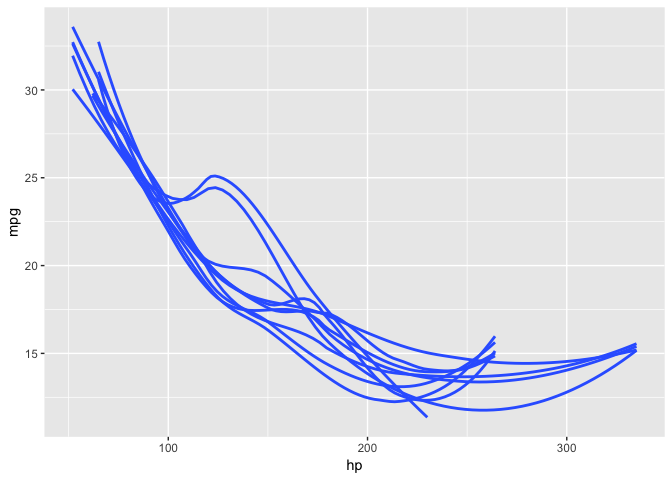
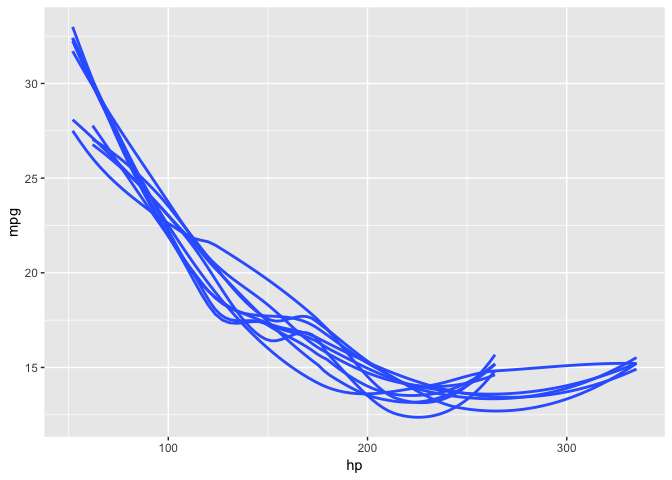
Use map2 over the indices and the size: - size is now vectorized and recycled which allows more flexibility in the grouped samplify case without replacement (if one group is much smaller than the others) - bootstrapify() can now pass in a vector of group sizes rather than NULL

diff --git a/README.md b/README.md
@@ -216,6 +216,33 @@ iris_50_5_group_sizes %>%
 #> Error: `size` (10) must be less than or equal to the size of the data / current group (5), set `replace = TRUE` to use sampling with replacement.
 ```
 
+Instead, pass a vector of sizes to `samplify()` if this structure is
+absolutely required for your use case.
+
+``` r
+# size of 10 for the first group
+# size of 5 for the second group
+# total number of rows is 10 * 2 + 5 * 2 = 30
+iris_50_5_group_sizes %>%
+  samplify(times = 2, size = c(10, 5)) %>%
+  collect()
+#> # A tibble: 30 x 6
+#> # Groups:   Species, .sample [4]
+#>    .sample Sepal.Length Sepal.Width Petal.Length Petal.Width Species
+#>      <int>        <dbl>       <dbl>        <dbl>       <dbl> <fct>  
+#>  1       1          5.4         3.9          1.3         0.4 setosa 
+#>  2       1          4.8         3.4          1.9         0.2 setosa 
+#>  3       1          5.2         3.5          1.5         0.2 setosa 
+#>  4       1          5.4         3.9          1.7         0.4 setosa 
+#>  5       1          4.6         3.1          1.5         0.2 setosa 
+#>  6       1          5.1         3.4          1.5         0.2 setosa 
+#>  7       1          4.6         3.6          1           0.2 setosa 
+#>  8       1          5.1         3.7          1.5         0.4 setosa 
+#>  9       1          5.4         3.4          1.5         0.4 setosa 
+#> 10       1          5           3.4          1.5         0.2 setosa 
+#> # … with 20 more rows
+```
+
 ## `group_*()` Functions
 
 `dplyr 0.8` adds some more neat group-wise functionality.
@@ -262,22 +289,24 @@ iris %>%
 #> # Groups:   Species, .bootstrap [30]
 #>    Species .bootstrap term         estimate std.error statistic  p.value
 #>  * <fct>        <int> <chr>           <dbl>     <dbl>     <dbl>    <dbl>
-#>  1 setosa           1 (Intercept)     4.41      0.407    10.8   1.66e-14
-#>  2 setosa           1 Petal.Length    0.366     0.275     1.33  1.90e- 1
-#>  3 setosa           2 (Intercept)     4.78      0.437    10.9   1.21e-14
-#>  4 setosa           2 Petal.Length    0.142     0.289     0.490 6.27e- 1
-#>  5 setosa           3 (Intercept)     3.85      0.410     9.40  1.84e-12
-#>  6 setosa           3 Petal.Length    0.834     0.279     2.99  4.42e- 3
-#>  7 setosa           4 (Intercept)     4.50      0.406    11.1   7.78e-15
-#>  8 setosa           4 Petal.Length    0.301     0.271     1.11  2.73e- 1
-#>  9 setosa           5 (Intercept)     3.66      0.467     7.84  3.86e-10
-#> 10 setosa           5 Petal.Length    0.917     0.333     2.76  8.22e- 3
+#>  1 setosa           1 (Intercept)     4.53      0.456     9.93  3.23e-13
+#>  2 setosa           1 Petal.Length    0.331     0.309     1.07  2.90e- 1
+#>  3 setosa           2 (Intercept)     3.81      0.381    10.0   2.41e-13
+#>  4 setosa           2 Petal.Length    0.798     0.253     3.16  2.77e- 3
+#>  5 setosa           3 (Intercept)     4.65      0.428    10.9   1.50e-14
+#>  6 setosa           3 Petal.Length    0.278     0.290     0.959 3.43e- 1
+#>  7 setosa           4 (Intercept)     4.28      0.441     9.69  7.00e-13
+#>  8 setosa           4 Petal.Length    0.432     0.309     1.40  1.68e- 1
+#>  9 setosa           5 (Intercept)     3.88      0.568     6.82  1.38e- 8
+#> 10 setosa           5 Petal.Length    0.750     0.396     1.89  6.45e- 2
 #> # … with 50 more rows
 ```
 
 ### Plotting bootstrapped results
 
 ``` r
+set.seed(123)
+
 # without bootstrap
 mtcars %>%
   ggplot(aes(hp, mpg)) + 
@@ -316,16 +345,16 @@ iris %>%
 #> # A tibble: 60 x 7
 #>    Species .bootstrap term         estimate std.error statistic  p.value
 #>    <fct>        <int> <chr>           <dbl>     <dbl>     <dbl>    <dbl>
-#>  1 setosa           1 (Intercept)     4.67      0.480     9.74  5.97e-13
-#>  2 setosa           1 Petal.Length    0.249     0.321     0.774 4.42e- 1
-#>  3 setosa           2 (Intercept)     4.07      0.481     8.45  4.58e-11
-#>  4 setosa           2 Petal.Length    0.616     0.342     1.80  7.78e- 2
-#>  5 setosa           3 (Intercept)     5.28      0.483    10.9   1.26e-14
-#>  6 setosa           3 Petal.Length   -0.173     0.321    -0.540 5.92e- 1
-#>  7 setosa           4 (Intercept)     3.83      0.400     9.57  1.04e-12
-#>  8 setosa           4 Petal.Length    0.765     0.271     2.82  6.89e- 3
-#>  9 setosa           5 (Intercept)     4.64      0.390    11.9   6.31e-16
-#> 10 setosa           5 Petal.Length    0.263     0.264     0.998 3.23e- 1
+#>  1 setosa           1 (Intercept)    5.09       0.445   11.4    2.61e-15
+#>  2 setosa           1 Petal.Length   0.0208     0.293    0.0710 9.44e- 1
+#>  3 setosa           2 (Intercept)    4.02       0.425    9.46   1.50e-12
+#>  4 setosa           2 Petal.Length   0.715      0.294    2.43   1.88e- 2
+#>  5 setosa           3 (Intercept)    5.10       0.447   11.4    2.83e-15
+#>  6 setosa           3 Petal.Length  -0.0737     0.302   -0.244  8.08e- 1
+#>  7 setosa           4 (Intercept)    3.75       0.428    8.77   1.54e-11
+#>  8 setosa           4 Petal.Length   0.885      0.300    2.95   4.87e- 3
+#>  9 setosa           5 (Intercept)    3.67       0.387    9.48   1.41e-12
+#> 10 setosa           5 Petal.Length   0.954      0.267    3.58   8.10e- 4
 #> # … with 50 more rows
 
 # Using rap  
@@ -344,15 +373,15 @@ iris %>%
 #> # A tibble: 60 x 7
 #>    Species .bootstrap term         estimate std.error statistic  p.value
 #>    <fct>        <int> <chr>           <dbl>     <dbl>     <dbl>    <dbl>
-#>  1 setosa           1 (Intercept)     3.45      0.406      8.49 4.00e-11
-#>  2 setosa           1 Petal.Length    1.08      0.279      3.87 3.23e- 4
-#>  3 setosa           2 (Intercept)     4.21      0.366     11.5  2.13e-15
-#>  4 setosa           2 Petal.Length    0.532     0.244      2.18 3.38e- 2
-#>  5 setosa           3 (Intercept)     4.20      0.340     12.4  1.56e-16
-#>  6 setosa           3 Petal.Length    0.544     0.229      2.37 2.16e- 2
-#>  7 setosa           4 (Intercept)     4.51      0.430     10.5  5.06e-14
-#>  8 setosa           4 Petal.Length    0.372     0.287      1.30 2.01e- 1
-#>  9 setosa           5 (Intercept)     4.31      0.477      9.03 6.49e-12
-#> 10 setosa           5 Petal.Length    0.532     0.320      1.66 1.03e- 1
+#>  1 setosa           1 (Intercept)    5.11       0.402   12.7    5.41e-17
+#>  2 setosa           1 Petal.Length  -0.0205     0.262   -0.0783 9.38e- 1
+#>  3 setosa           2 (Intercept)    4.05       0.462    8.77   1.56e-11
+#>  4 setosa           2 Petal.Length   0.661      0.318    2.08   4.31e- 2
+#>  5 setosa           3 (Intercept)    4.23       0.485    8.71   1.92e-11
+#>  6 setosa           3 Petal.Length   0.525      0.330    1.59   1.18e- 1
+#>  7 setosa           4 (Intercept)    3.98       0.300   13.3    1.14e-17
+#>  8 setosa           4 Petal.Length   0.663      0.205    3.23   2.21e- 3
+#>  9 setosa           5 (Intercept)    3.47       0.505    6.88   1.13e- 8
+#> 10 setosa           5 Petal.Length   1.000      0.348    2.87   6.02e- 3
 #> # … with 50 more rows
 ```
